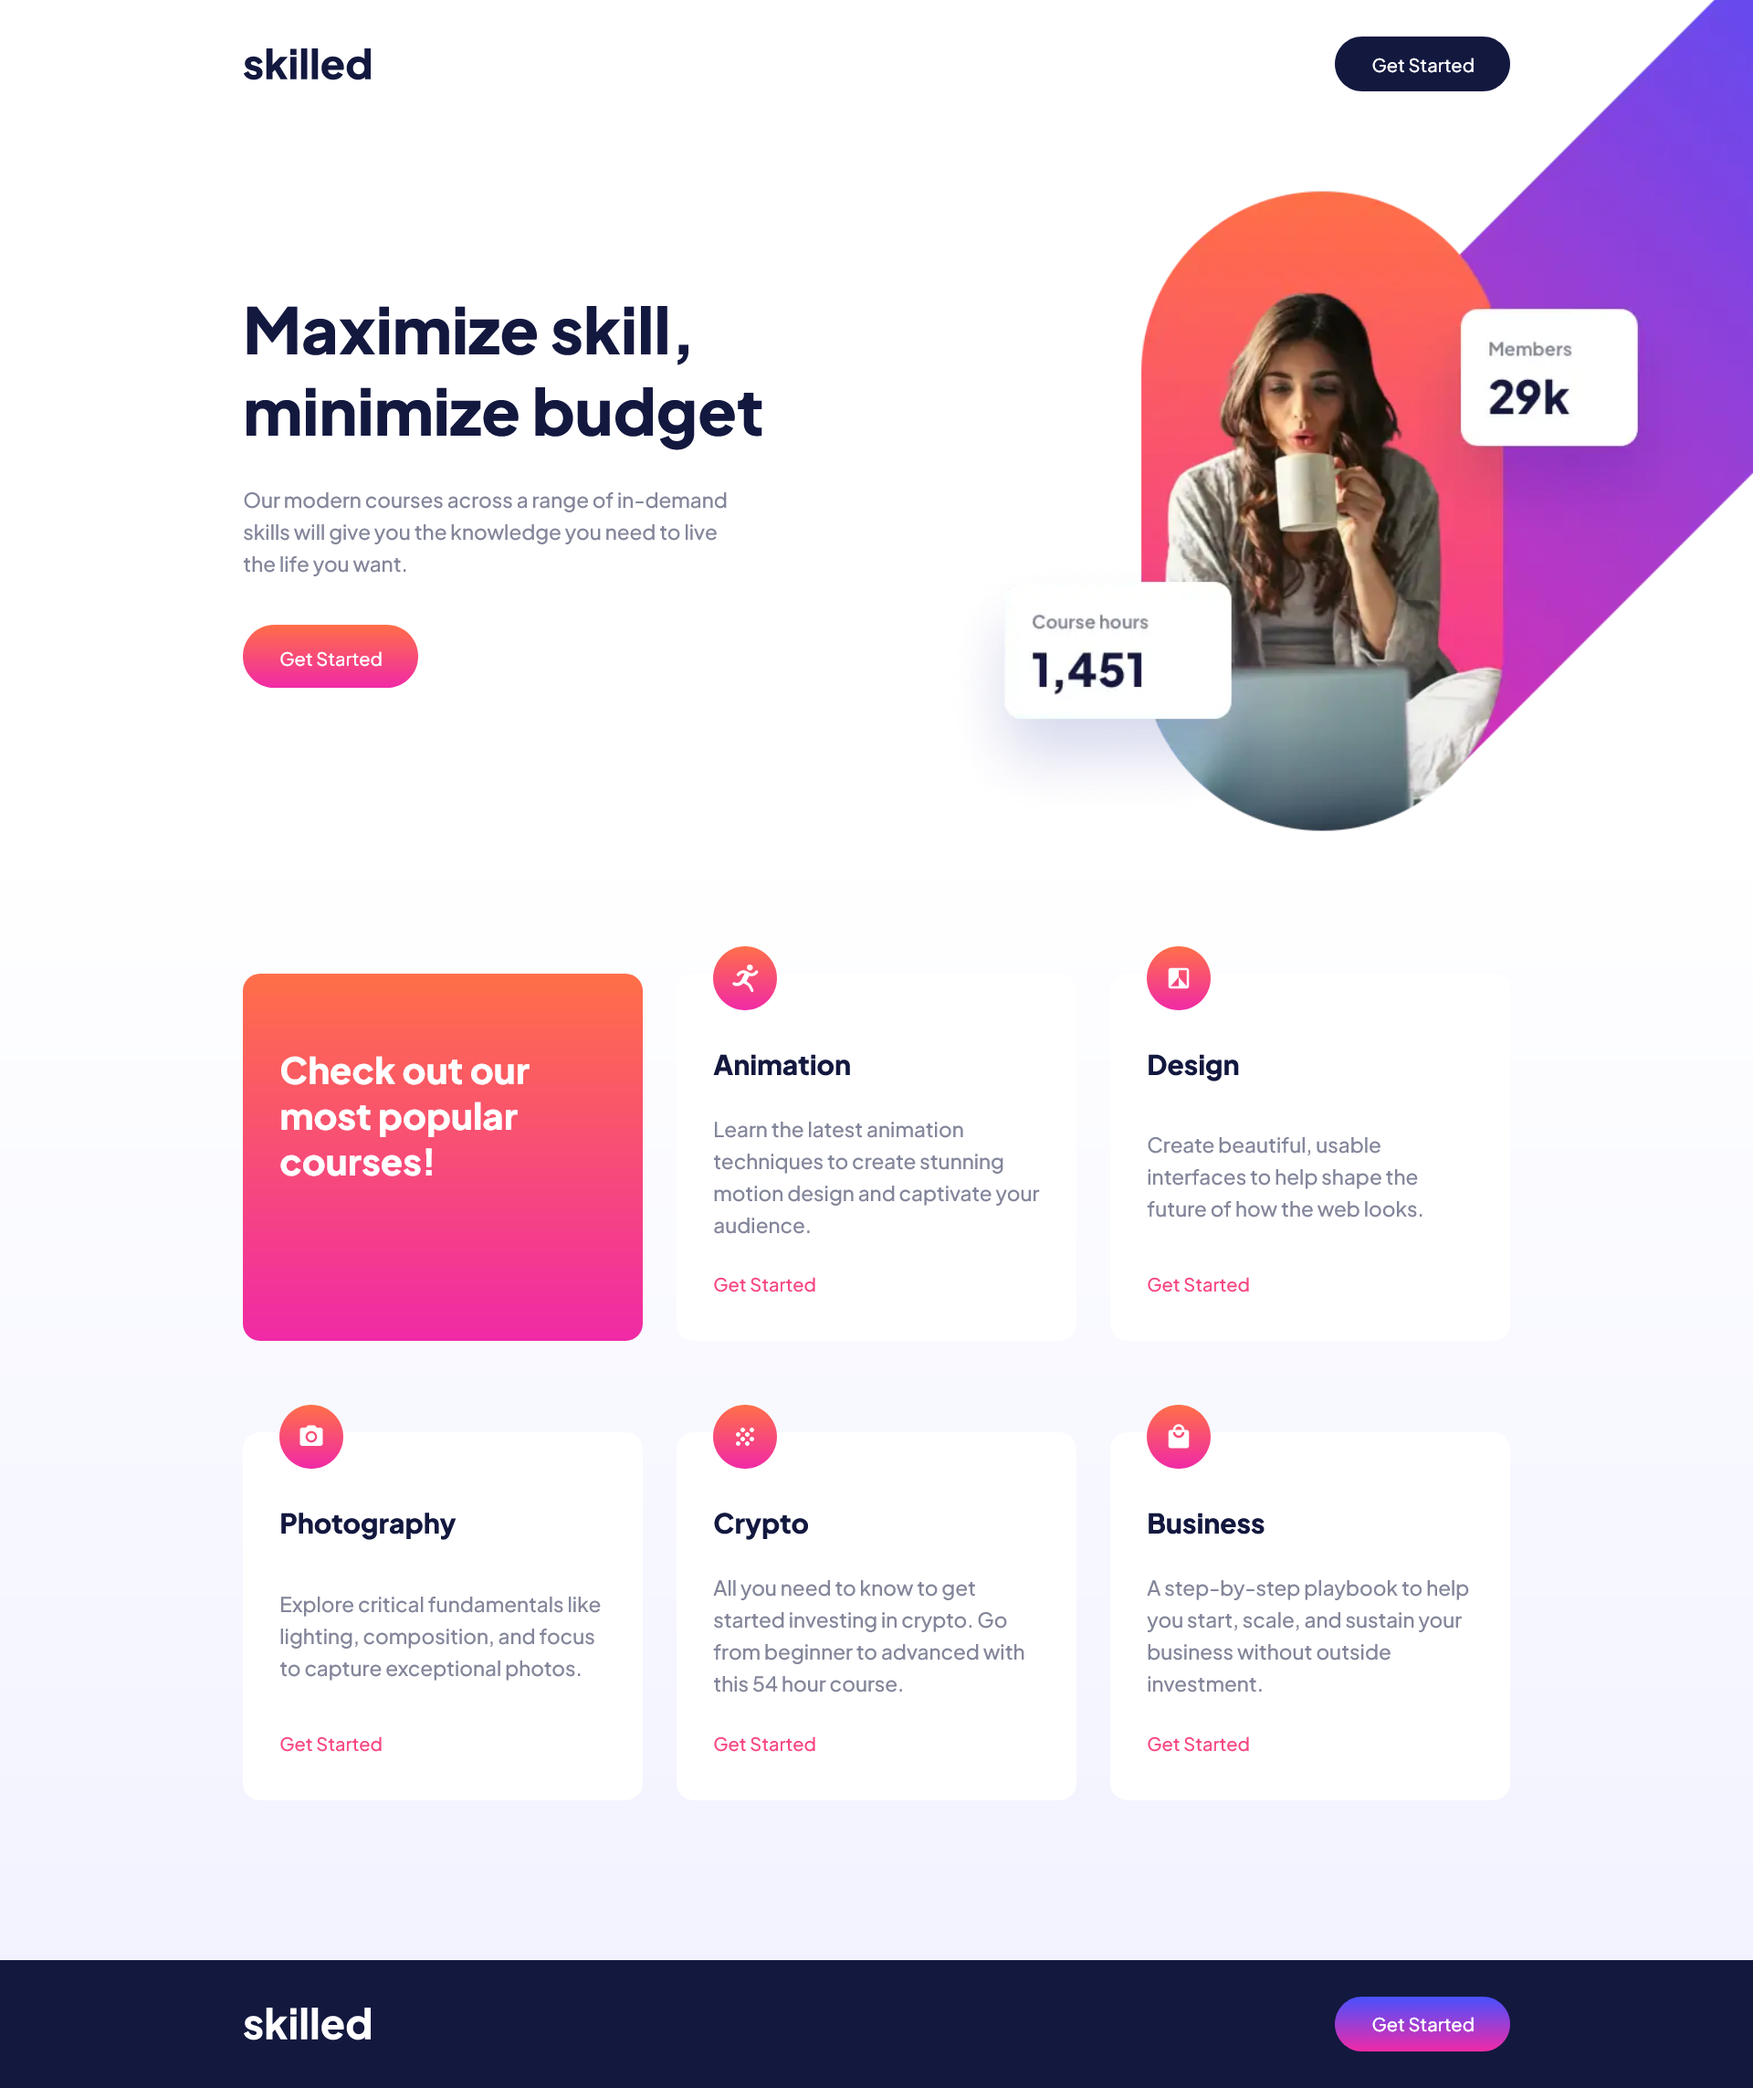
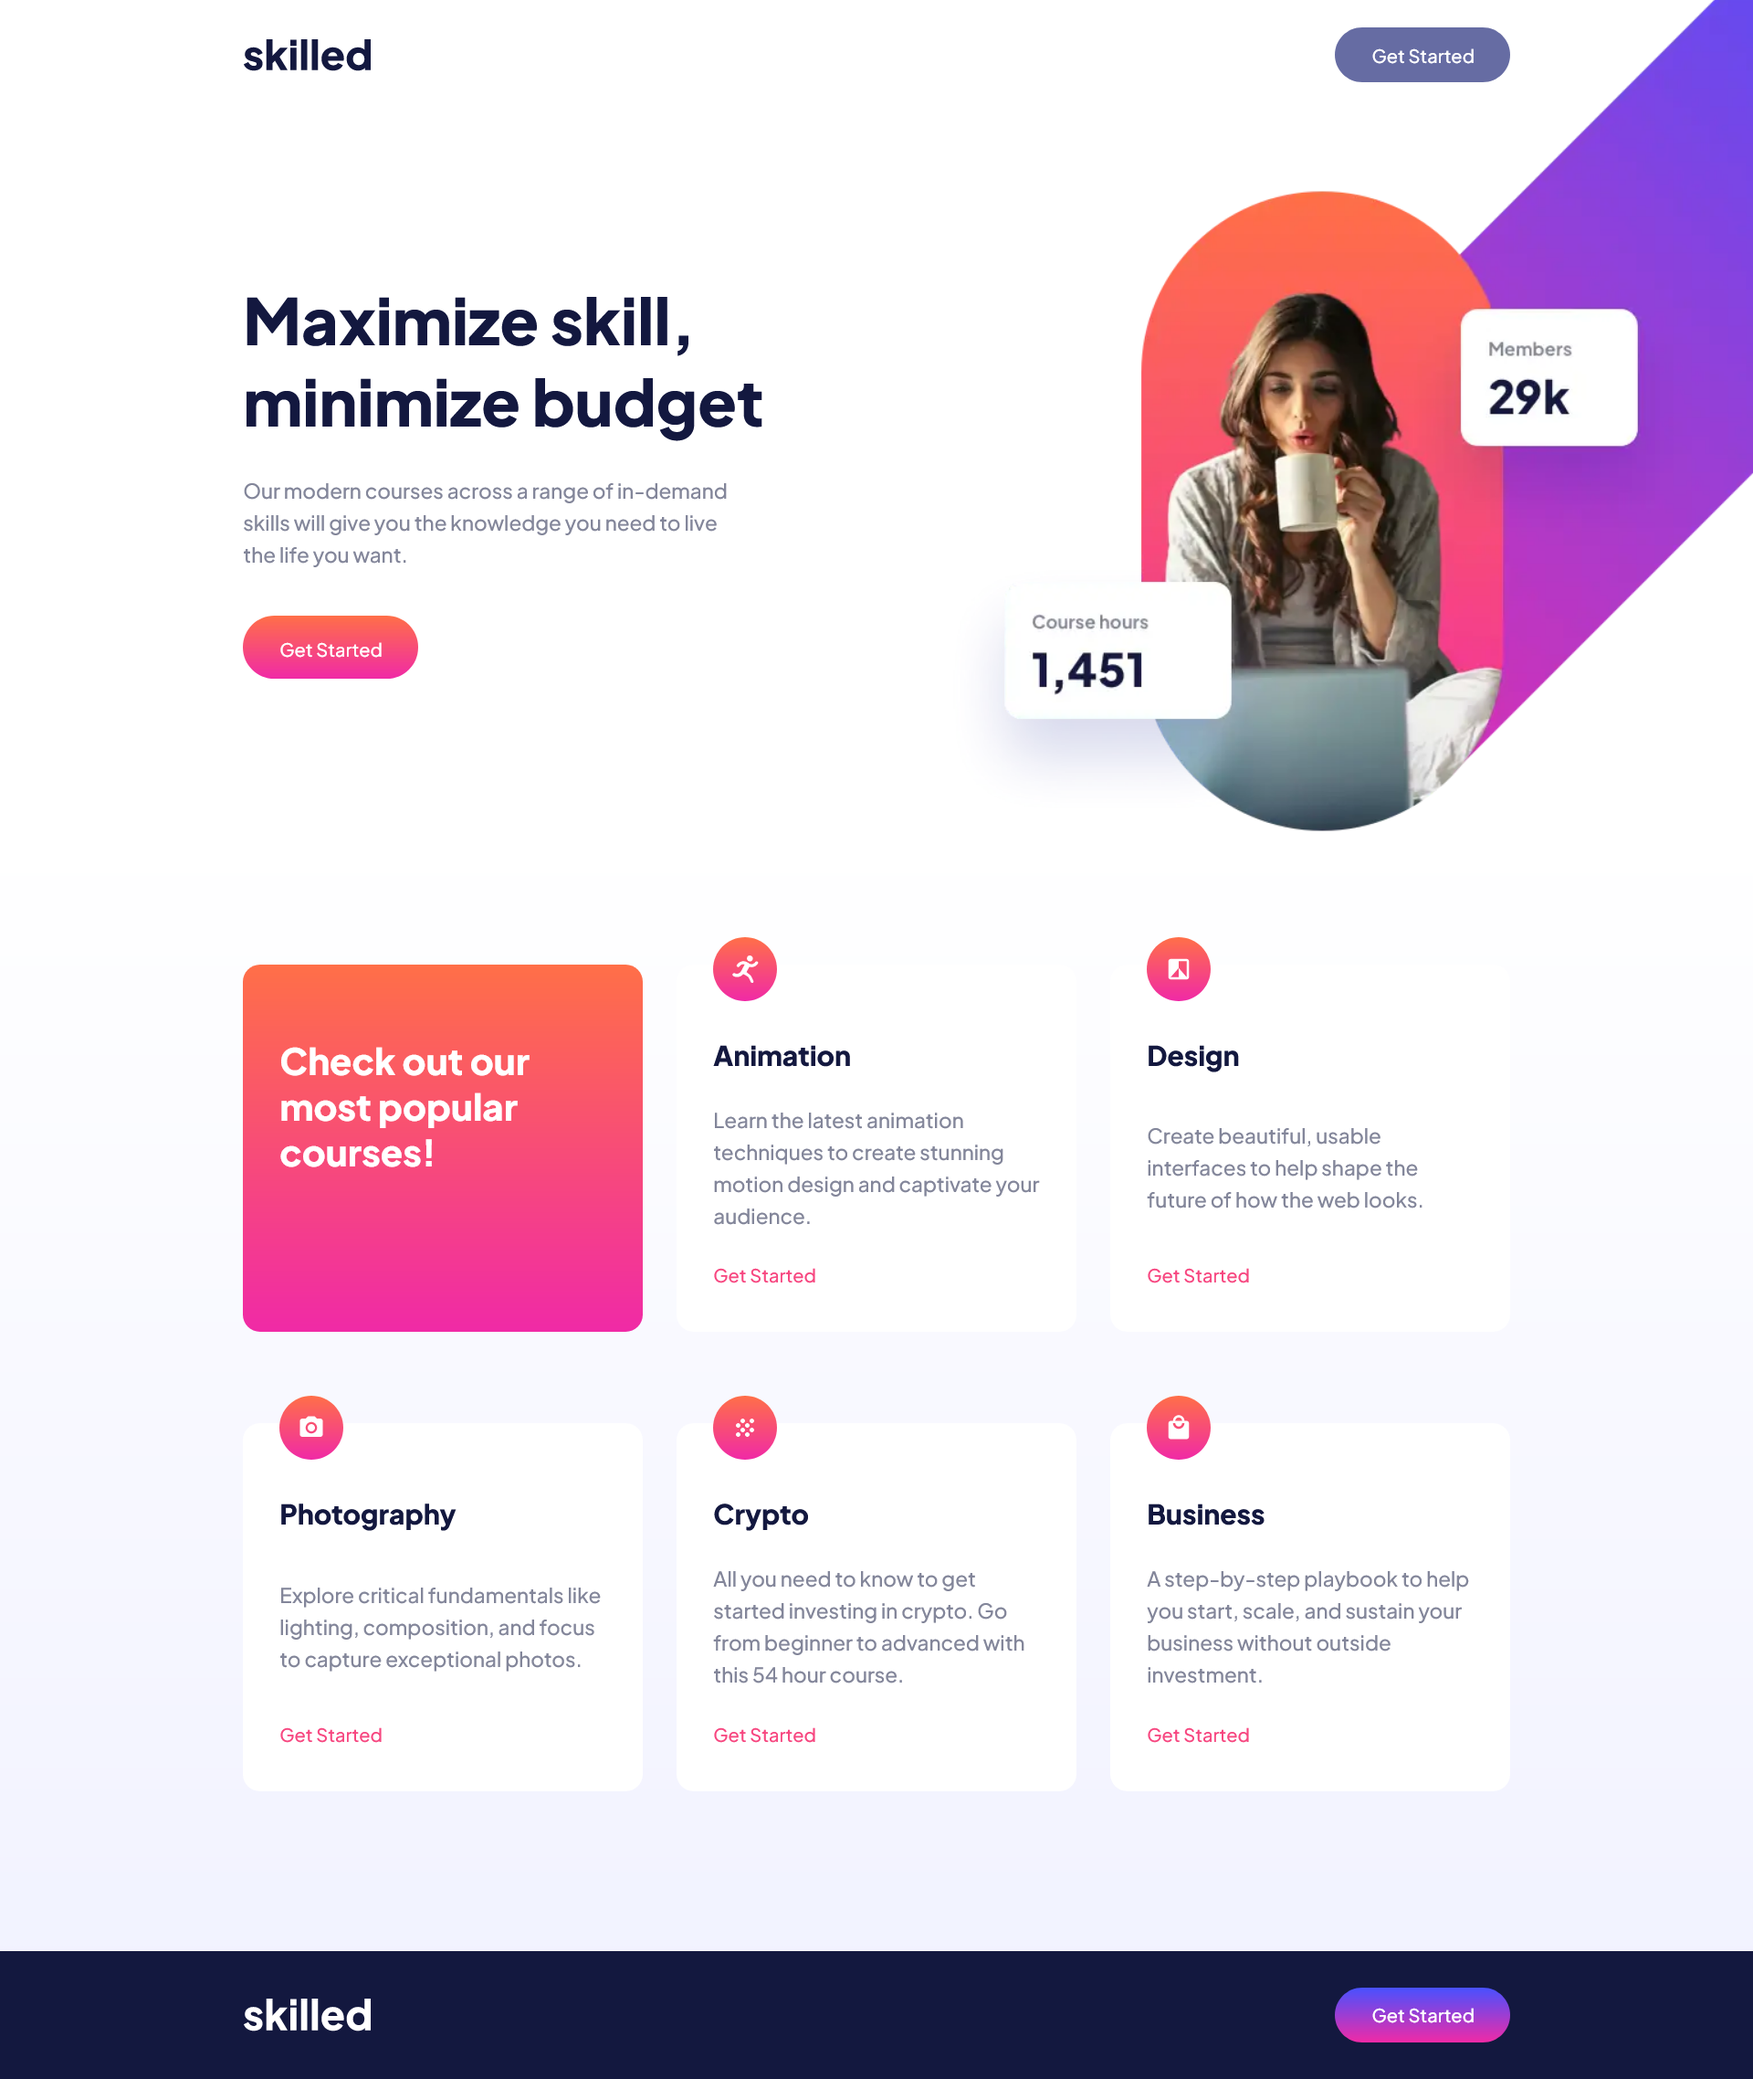
fix bug

diff --git a/css/style.css b/css/style.css
@@ -95,6 +95,7 @@ header div {
   justify-content: space-between;
   align-items: center;
   padding: 32px 0;
+  padding: 24px 0 0;
 }
 @media screen and (max-width: 1279.9px) {
   header div {
@@ -111,6 +112,14 @@ header div {
     padding: 36px 0;
   }
   header div img {
+    width: 89px;
+  }
+}
+@media screen and (max-width: 767.9px) {
+  header {
+    padding: 16px 0 0 0;
+  }
+  header img {
     width: 89px;
   }
 }
@@ -185,7 +194,7 @@ body {
   max-width: 1110px;
   margin: auto;
   display: flex;
-  padding: 140px 0 250px;
+  padding: 172px 0 250px;
 }
 @media screen and (max-width: 1279.9px) {
   .hero {
@@ -199,12 +208,12 @@ body {
 }
 @media screen and (max-width: 1279.9px) {
   .hero {
-    padding: 63px 0 210px;
+    padding: 99px 0 210px;
   }
 }
 @media screen and (max-width: 767.9px) {
   .hero {
-    padding: 2px 0 413px;
+    padding: 38px 0 413px;
   }
 }
 .hero-heading {

diff --git a/scss/main.scss b/scss/main.scss
@@ -30,14 +30,14 @@ body {
 .hero {
     @include content_center;
     display: flex;
-    padding: 140px 0 250px;
+    padding: 172px 0 250px;
 
     @media screen and (max-width: 1279.9px) {
-        padding: 63px 0 210px;
+        padding: 99px 0 210px;
     }
 
     @media screen and (max-width: 767.9px) {
-        padding: 2px 0 413px;
+        padding: 38px 0 413px;
     }
 
     &-heading {

diff --git a/scss/layouts/_header.scss b/scss/layouts/_header.scss
@@ -1,7 +1,16 @@
 header {
     div {
         @include content_center;
-        @include header_footer
+        @include header_footer;
+        padding: 24px 0 0;
+    }
+
+    @media screen and (max-width: 767.9px) {
+        padding: 16px 0 0 0;
+
+        img {
+            width: 89px;
+        }
     }
 
     .CTA:hover {
